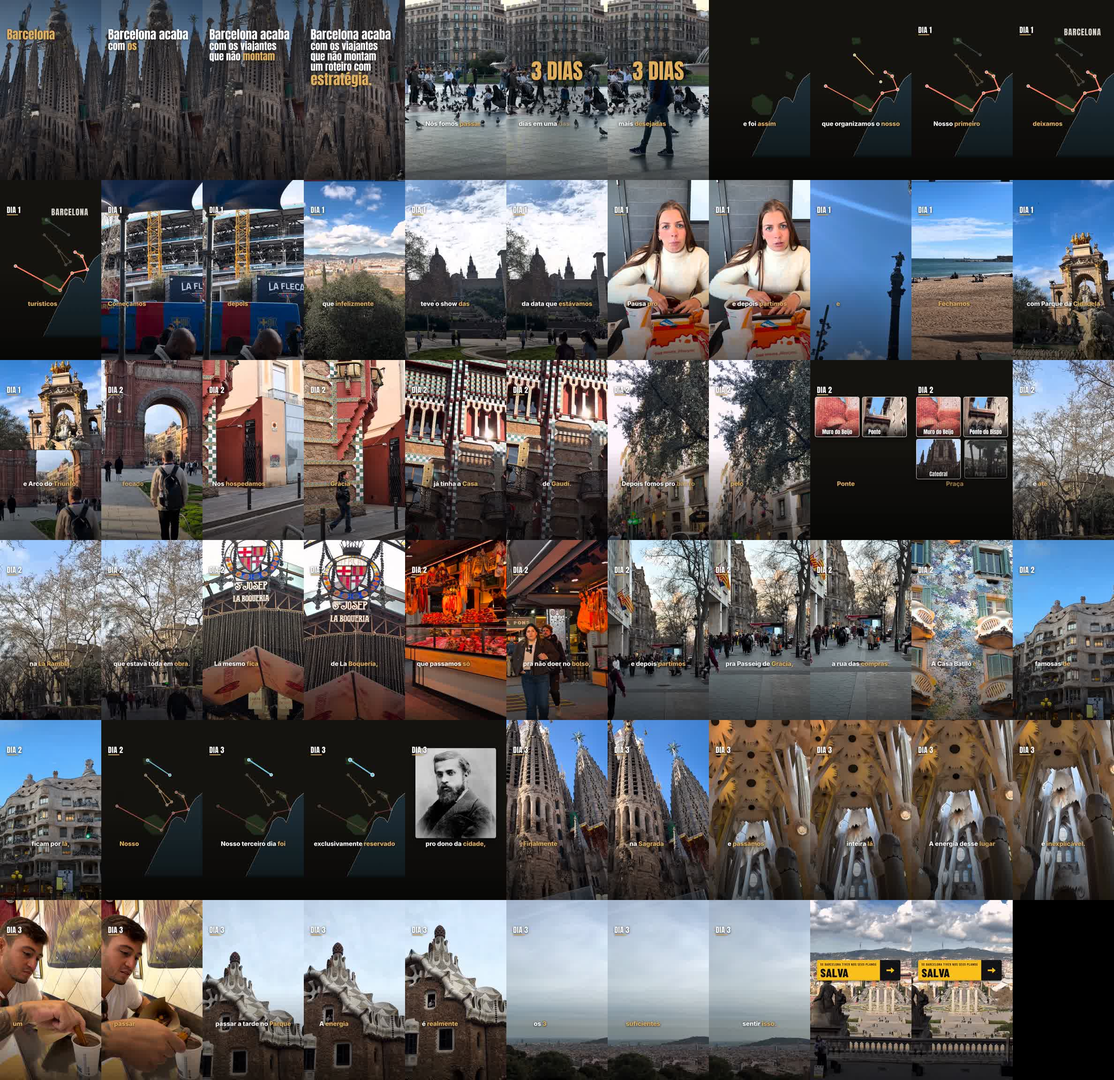
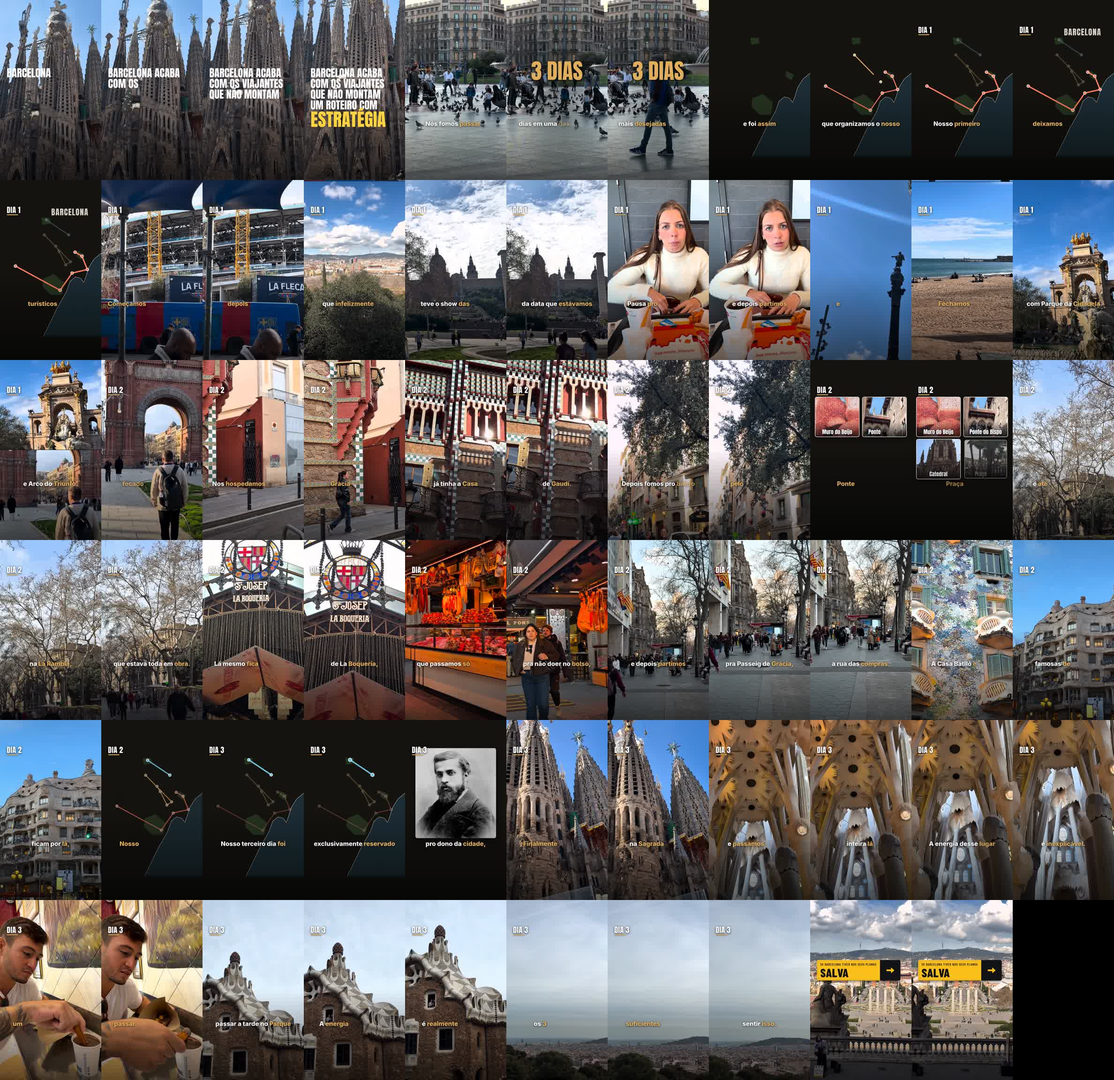
Barcelona 3 dias REV1: capa pelo DS (placa Série estática), legenda do post e gancho em Anton sem sombra
Claude-Session: https://claude.ai/code/session_01TJN9nreh2STWnNt3RYjFwu

Changed region(s): [[0.0, 0.0, 0.3737, 0.125]]

diff --git a/design-system/remotion/src/reel/BarcelonaReel.tsx b/design-system/remotion/src/reel/BarcelonaReel.tsx
@@ -75,7 +75,7 @@ export type PropsBarcelona = {
   palavras: Palavra[];
   cenas: CenaBcn[];
   grupos: number[][];
-  gancho: { fim: number; linhas: { tam: number; palavras: number[] }[] };
+  gancho: { fim: number; linhas: { tam: number; palavras: number[]; amarelo?: boolean; cor?: string }[] };
   dias: { t: number; txt: string }[];
   sfx: Sfx[];
   cta: { ini: number; rotulo: string; destino: string };
@@ -351,26 +351,28 @@ const Legenda: React.FC<{ p: PropsBarcelona; t: number }> = ({ p, t }) => {
   );
 };
 
-/** Gancho: texto grande, palavra por palavra, a palavra dita em âmbar. */
+/**
+ * Gancho (pedido do Diego, 18/11/2026, referência: capa do Reel "3 formas de economizar com comida"):
+ * Anton em CAIXA ALTA, branco, a palavra-chave grande em amarelo; imagem sem escurecer e texto sem sombra.
+ * Cada palavra entra quando é dita (nada antes da fala). Tamanhos medidos com a fonte: nenhuma linha passa de x 944.
+ */
+const AMARELO_GANCHO = "#FFD23F"; // o da referência (capa do Reel de comida, REV3)
 const Gancho: React.FC<{ p: PropsBarcelona; t: number }> = ({ p, t }) => {
   if (!p.gancho.linhas.length || t >= p.gancho.fim) return null;
-  let y = 300;
+  let y = 720; // sobre a pedra escura da fachada: branco e amarelo legíveis sem sombra nem véu (base do bloco ≈ y 1350)
   return (
     <>
-      <AbsoluteFill style={{ background: "linear-gradient(to bottom, rgba(0,0,0,0.55), rgba(0,0,0,0.25) 45%, rgba(0,0,0,0) 62%)" }} />
       {p.gancho.linhas.map((l, i) => {
         const top = y;
-        y += l.tam * 1.06;
+        y += l.tam * 1.02;
         return (
-          <div key={i} style={{ position: "absolute", left: 72, top, fontFamily: "Anton", fontSize: l.tam, lineHeight: 1.05, textShadow: "0 4px 24px rgba(0,0,0,0.65)", whiteSpace: "pre" }}>
+          <div key={i} style={{ position: "absolute", left: 72, top, fontFamily: "Anton", fontSize: l.tam, lineHeight: 1.02, whiteSpace: "pre", textTransform: "uppercase", color: l.amarelo ? AMARELO_GANCHO : "#fff" }}>
             {l.palavras.map((k, j) => {
               const w = p.palavras[k];
               const o = entra(t, w.s, 0.12);
-              const prox = k + 1 < p.palavras.length ? p.palavras[k + 1].s : w.e;
-              const ativa = t >= w.s && t < Math.max(w.e, prox);
               return (
-                <span key={j} style={{ display: "inline-block", opacity: o, transform: `translateY(${(1 - o) * 24}px)`, color: ativa ? AMBAR : "#fff" }}>
-                  {(j ? " " : "") + w.w}
+                <span key={j} style={{ display: "inline-block", opacity: o, transform: `translateY(${(1 - o) * 24}px)` }}>
+                  {(j ? " " : "") + w.w.replace(/[.,]$/, "")}
                 </span>
               );
             })}
@@ -429,3 +431,21 @@ export const BarcelonaReel: React.FC<PropsBarcelona> = (p) => {
     </AbsoluteFill>
   );
 };
+
+/* ---------- capa (DS V2) ---------- */
+
+export type PropsCapaBarcelona = { fundo: string; rotulo: string; destino: string };
+export const propsCapaBarcelonaVazias: PropsCapaBarcelona = { fundo: "capa_fundo.png", rotulo: "ROTEIRO · 3 DIAS", destino: "BARCELONA" };
+
+/**
+ * Capa do Reel: quadro do master (Sagrada Família, o mesmo plano do gancho) + Placa variante Série, estática
+ * (brilho de esmalte congelado a 30%, DS 2.1), na posição fixa x 72 · y 640 (DS 1.3), tamanho G.
+ * Um elemento dominante (a placa), nenhum texto solto sobre a foto (DS 0.3). No recorte 3:4 da grade do perfil
+ * (y 240–1680) a placa e as torres continuam inteiras.
+ */
+export const CapaBarcelona: React.FC<PropsCapaBarcelona> = ({ fundo, rotulo, destino }) => (
+  <AbsoluteFill style={{ background: "#000" }}>
+    <Img src={staticFile(fundo)} style={{ width: W, height: H, objectFit: "cover" }} />
+    <Placa rotulo={rotulo} destino={destino} entrada={null} />
+  </AbsoluteFill>
+);

diff --git a/design-system/remotion/src/Root.tsx b/design-system/remotion/src/Root.tsx
@@ -16,7 +16,7 @@ import { AmostraYT } from "./yt/AmostraYT";
 import { AmostraFimYT, DUR_AMOSTRA_FIM } from "./yt/AmostraFimYT";
 import { VideoLongo, metadadosVideoLongo, propsVideoLongoVazias } from "./yt/VideoLongo";
 import { ThumbYT, propsThumbVazias } from "./yt/ThumbYT";
-import { BarcelonaReel, metadadosBarcelona, propsBarcelonaVazias } from "./reel/BarcelonaReel";
+import { BarcelonaReel, CapaBarcelona, metadadosBarcelona, propsBarcelonaVazias, propsCapaBarcelonaVazias } from "./reel/BarcelonaReel";
 
 carregarFontes();
 
@@ -28,6 +28,7 @@ export const RemotionRoot: React.FC = () => (
     <Composition id="AmostraFimYT" component={AmostraFimYT} durationInFrames={Math.round((DUR_AMOSTRA_FIM * 30) / 1000)} fps={30} width={1920} height={1080} />
     <Composition id="VideoLongo" component={VideoLongo} durationInFrames={24} fps={24} width={1920} height={1080} defaultProps={propsVideoLongoVazias} calculateMetadata={metadadosVideoLongo} />
     <Composition id="BarcelonaReel" component={BarcelonaReel} durationInFrames={30} fps={30} width={1080} height={1920} defaultProps={propsBarcelonaVazias} calculateMetadata={metadadosBarcelona} />
+    <Still id="CapaBarcelona" component={CapaBarcelona} width={1080} height={1920} defaultProps={propsCapaBarcelonaVazias} />
     <Still id="ThumbYT" component={ThumbYT} width={1280} height={720} defaultProps={propsThumbVazias} />
     <Still id="CapaReel" component={CapaReel} width={1080} height={1920} defaultProps={propsVazias} />
   </>

diff --git a/reels/barcelona-3-dias/rev1/cenas.py b/reels/barcelona-3-dias/rev1/cenas.py
@@ -187,12 +187,12 @@ for gr in grupos:
 # ---------------------------------------------------------------- gancho (as palavras da 1ª frase, em linhas)
 g0 = [i for i, p in enumerate(P) if p["take"] == 1]
 assert txt(g0) == "Barcelona acaba com os viajantes que não montam um roteiro com estratégia.", txt(g0)
-gancho = {"fim": C[0]["fim"], "linhas": [
-    {"tam": 128, "palavras": g0[0:2]},     # Barcelona acaba (≈ 853 px: termina antes de x 944)
-    {"tam": 104, "palavras": g0[2:5]},     # com os viajantes
-    {"tam": 104, "palavras": g0[5:8]},     # que não montam
-    {"tam": 104, "palavras": g0[8:11]},    # um roteiro com
-    {"tam": 150, "palavras": g0[11:12]},   # estratégia.
+gancho = {"fim": C[0]["fim"], "linhas": [   # Anton caixa alta; larguras medidas com a fonte (≤ 872 px a partir de x 72)
+    {"tam": 112, "palavras": g0[0:2]},                    # BARCELONA ACABA (≈ 766 px)
+    {"tam": 112, "palavras": g0[2:5]},                    # COM OS VIAJANTES (≈ 786 px)
+    {"tam": 112, "palavras": g0[5:8]},                    # QUE NÃO MONTAM (≈ 746 px)
+    {"tam": 112, "palavras": g0[8:11]},                   # UM ROTEIRO COM (≈ 711 px)
+    {"tam": 190, "palavras": g0[11:12], "amarelo": True},  # ESTRATÉGIA (≈ 830 px), a palavra-chave
 ]}
 
 # ---------------------------------------------------------------- marcador do dia (entra quando o dia é dito)

diff --git a/reels/barcelona-3-dias/rev1/QA_REV1.md b/reels/barcelona-3-dias/rev1/QA_REV1.md
@@ -1,6 +1,6 @@
 # QA · Reel "Barcelona: roteiro de 3 dias" · REV1 (18/11/2026)
 
-**Entrega:** `reel_barcelona_3dias_rev1.mp4` (1080 × 1920, 9:16, 30 qps, H.264 + AAC 320 kb/s, 65.3 s, −14,0 LUFS, pico −2,3 dBTP). **Sem música**: o Diego coloca a trilha no app (pedido de 17/11/2026). Também: `reel_barcelona_3dias_rev1_previa.mp4` (540 × 960), `capa_reel_barcelona_3dias_rev1.jpg` (quadro de 3,6 s, gancho completo), `qa_folha_1qps.jpg` (1 quadro por segundo) e `legenda_post.md`.
+**Entrega:** `reel_barcelona_3dias_rev1.mp4` (1080 × 1920, 9:16, 30 qps, H.264 + AAC 320 kb/s, 65.3 s, −14,0 LUFS, pico −2,3 dBTP). **Sem música**: o Diego coloca a trilha no app (pedido de 17/11/2026). Também: `reel_barcelona_3dias_rev1_previa.mp4` (540 × 960), `capa_reel_barcelona_3dias_rev1.jpg` (capa pelo DS V2, ver "Capa") + `capa_reel_barcelona_3dias_rev1_grade_3x4.jpg` (como aparece na grade do perfil), `qa_folha_1qps.jpg` (1 quadro por segundo) e `legenda_post.md` (regras do DS aplicadas listadas no arquivo).
 **Composição:** `BarcelonaReel` (`design-system/remotion/src/reel/BarcelonaReel.tsx`). Scripts, na ordem: `voz.py` (decupagem da narração, alinhamento forçado) → `clipes.py` (takes do vlog em vertical, a partir de `takes.json`) → `cenas.py` (cenas, legenda, gancho, efeitos → `props.json`) → render → master → `qa_voz.py` e `conferir_cortes.py`. Escolha dos takes: `folhas.py`, `linhas.py`, `recortes.py` (folhas de contato da cópia leve do vlog).
 
 ## Pedido do Diego (17/11/2026) e o que foi feito
@@ -16,6 +16,7 @@
 | Animação só quando precisar compor | 3 composições: **mapa** das rotas dos 3 dias (em "organizamos o nosso roteiro" e de novo em "Nosso terceiro dia"), **grade** para a lista rápida do Gótico (cada lugar entra no seu quadro quando é dito) e **divisão de tela** nos pares falados juntos (Camp Nou → Montjuïc, Colombo → Barceloneta, Cidadela → Arco, Batlló → Milà), para cada imagem ficar ≈ 2 s sem atrasar a fala. "3 DIAS" em letras grandes na palavra |
 | Design System só no fim | DS V2 só no CTA: placa `SE BARCELONA TIVER NOS SEUS PLANOS / SALVA →` na posição fixa do DS (y 640), com Chegada e *clack* (−6 dB da voz), entrando em "Salva". Do gancho até antes do CTA, linguagem do formato (FORMATOS_REELS: Anton/Inter, âmbar #E0AE5C, fundo #14120F) |
 | Legenda que acompanha a fala e fica colorida quando ele fala | Karaokê: grupos de 1–4 palavras (≤ 24 caracteres), Inter 800 66 px centrada em x 540, y 1320; a palavra dita fica âmbar; nada aparece antes de ser dito. No gancho, a 1ª frase é o próprio texto grande, também em karaokê |
+| Gancho na fonte da referência, sem escurecer e sem sombra (18/11) | Anton em CAIXA ALTA, branco, "ESTRATÉGIA" em amarelo `#FFD23F` a 190 px (as outras linhas a 112 px), como a capa do Reel "3 formas de economizar com comida". Sem degradê sobre a imagem e sem sombra no texto. O bloco fica sobre a pedra escura da fachada (y 720 → ≈ 1371) para ser legível sem efeito; larguras medidas com a fonte: a maior linha termina em x 874 (zona segura até 944). Cada palavra entra quando é dita; o texto é a fala, sem pontuação |
 | Ajustes depois da 1ª versão (18/11) | Paisagem do Park Güell mantida (o banco de mosaico saiu); Montjuïc: as quatro colunas saíram e entrou o Palau Nacional ("castelo" do vlog) com a escadaria da Font Màgica; Sagrada por dentro: a "floresta" de colunas (25:23) |
 
 ## Texto falado (o que vai na legenda)
@@ -124,6 +125,15 @@ Master: `Barcelona_3dias.mov` (Drive, pasta Youtube; 10.137.720.126 bytes; 3840 
 1. "das fontes **da** data" e "pra não **doer** no bolso" (ver leituras acima).
 2. Efeitos (kit PDX, ninguém ouviu): impacto em "3 dias"; swish na entrada do mapa, na divisão Camp Nou/Montjuïc e na Batlló/Milà; obturador quando entra cada "DIA"; página na grade do Gótico; riser antes do mergulho na Sagrada; *clack* da placa.
 3. Com a música: deixar a trilha bem abaixo da voz (≈ −18 dB sob a fala, REFERENCIA_EDICAO_FORMATOS 4.1), senão os efeitos somem.
+
+## Capa (DS V2)
+
+`capa_reel_barcelona_3dias_rev1.jpg` (1080 × 1920), composição `CapaBarcelona` (`BarcelonaReel.tsx`):
+- Fundo: quadro do master (1572,6 s, Sagrada Família, o mesmo plano do gancho), sem efeito.
+- Placa variante **Série** (DS V2, 2.1: linha 1 = série, linha 2 = lugar): `ROTEIRO · 3 DIAS` / `BARCELONA` + módulo de seta, **estática** (brilho congelado a 30%), tamanho G, na posição fixa **x 72 · y 640** (DS 1.3). 4 palavras.
+- Um elemento dominante (a placa), nenhum texto solto sobre a foto (DS 0.3, "Objeto, não caixa"). Amarelo ≈ 7% da tela.
+- Grade do perfil (3:4, y 240–1680): placa e torres inteiras (`…_grade_3x4.jpg`).
+- Teste de miniatura (DS 7.2): a 25% (270 × 480) "BARCELONA" continua legível.
 
 ## Decisões e pendências
 

diff --git a/reels/barcelona-3-dias/rev1/legenda_post.md b/reels/barcelona-3-dias/rev1/legenda_post.md
@@ -1,25 +1,27 @@
 # Legenda do post · Barcelona 3 dias · REV1
 
-CTA único: **salvar** (o mesmo verbo da placa). Primeira linha reforça o gancho (referência de conteúdo, 3.4). Nada de valor, hora ou dado que não esteja na fala.
+Regras aplicadas: 1ª linha = o gancho falado (referência de conteúdo, 3.4) · **um CTA, com o mesmo verbo da placa** (`SALVA →`, DS V2, 2.7) · tom da plataforma ("Preciso nos números, simples nas palavras", DS V2, 0.2.1) · nomes como o Diego fala no vídeo · palavras-chave de busca · nenhum valor citado (o checklist do DS pede € + R$ + cotação só quando há valor; este Reel não tem) · `DIA 1 · …` com o ponto médio da variante Série da placa. Bordão "E isso foi só o primeiro dia." não entra: é dos Reels de primeiro dia (DS V2, 7.3).
 
 ## Instagram (Reels)
 
 ```
-Barcelona acaba com quem vai sem roteiro. Esse foi o nosso, em 3 dias:
+Barcelona acaba com os viajantes que não montam um roteiro com estratégia. Esse foi o nosso, em 3 dias:
 
-Dia 1 (o mais longe primeiro): Camp Nou, Montjuïc, Colombo, Barceloneta, Parque da Cidadela e Arco do Triunfo.
-Dia 2 (história): Gràcia e Casa Vicens, bairro Gótico (Muro do Beijo, Pont del Bisbe, Catedral, Plaça Reial), La Rambla, Boqueria e Passeig de Gràcia com a Casa Batlló e a Milà.
-Dia 3 (Gaudí): Sagrada Família de manhã, churros e Park Güell à tarde.
+DIA 1 · o mais longe primeiro: Camp Nou, Montjuïc, Colombo, Barceloneta, Parque da Cidadela e Arco do Triunfo.
+
+DIA 2 · história: bairro Gràcia e Casa Vicens, bairro Gótico (Muro do Beijo, Ponte do Bispo, Catedral e Praça Real), La Rambla, Mercado de La Boqueria e Passeig de Gràcia, com a Casa Batlló e a Casa Milà.
+
+DIA 3 · Gaudí: Sagrada Família a manhã inteira, churros e Parque Güell à tarde.
 
 Salva esse roteiro se Barcelona estiver nos seus planos.
 
-#Barcelona #roteirobarcelona #dicasbarcelona #Espanha #PrimeiroDia
+#Barcelona #roteirobarcelona #oquefazerembarcelona #Gaudí #PrimeiroDia
 ```
 
 ## TikTok e YouTube Shorts (título ≤ 60 caracteres)
 
 ```
-Roteiro de 3 dias em Barcelona: o longe primeiro, Gaudí no fim
+Roteiro de 3 dias em Barcelona: longe primeiro, Gaudí no fim
 ```
 
-Retrato de Gaudí: foto de 1878, Pau Audouard, domínio público (não exige crédito; se quiser, no comentário fixado: "Foto de Gaudí: Pau Audouard, 1878, domínio público, via Wikimedia Commons").
+Crédito opcional (domínio público, não obrigatório), no comentário fixado: "Foto de Gaudí: Pau Audouard, 1878, domínio público."
